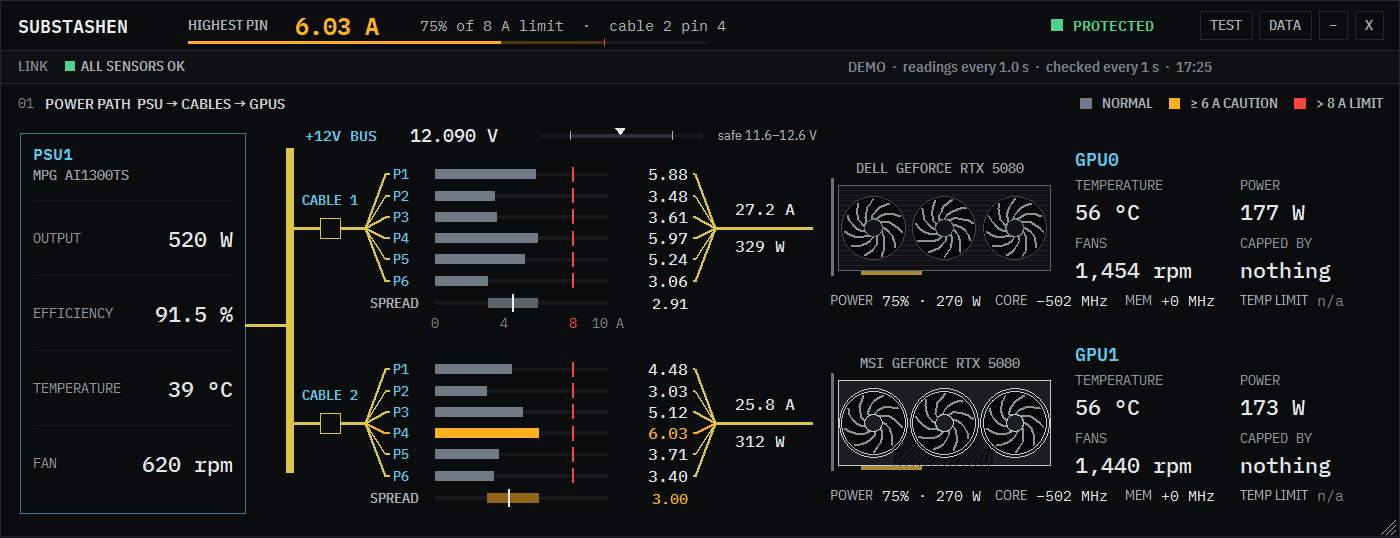
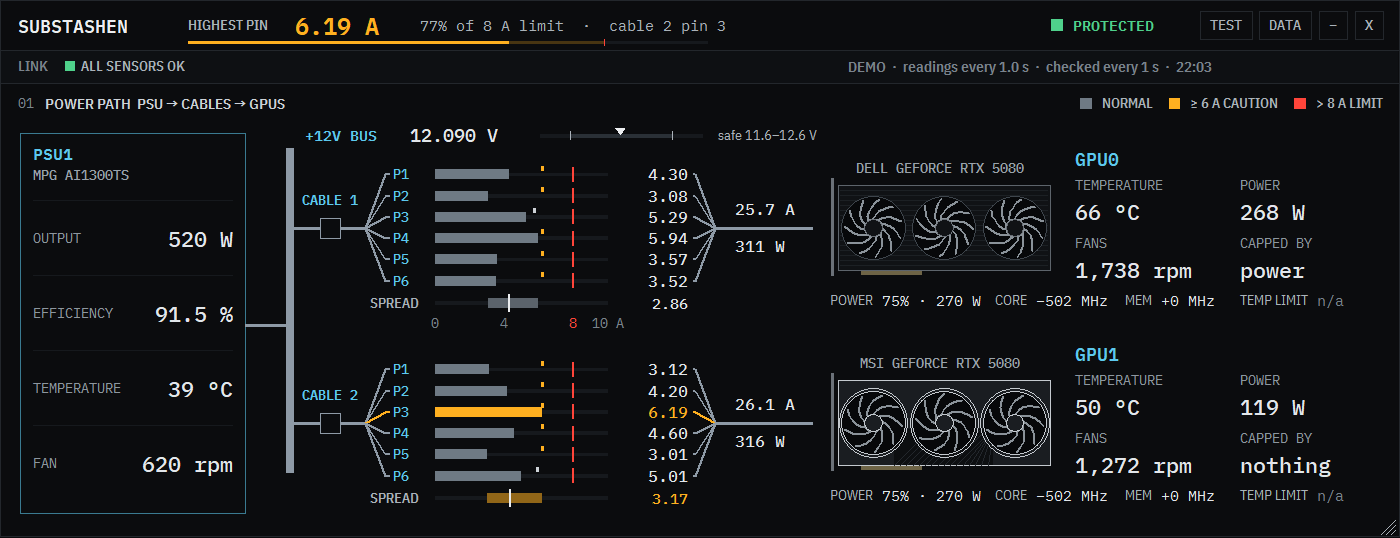
Peak notch per pin; grey wiring so amber only means caution

diff --git a/README.md b/README.md
@@ -49,7 +49,8 @@ The warning rules only warn. Only the 8 A rule and the PSU alarm close programs.
 - **HIGHEST PIN**: the highest of the 12 currents, how close it is to the 8 A limit, and a headroom bar (caution zone 6–8 A, red tick at the limit) you can read from across the room.
 - **Balance strip under each cable**: a band from the cable's lowest to its highest pin. Narrow means the pins share evenly; wide means one pin is doing more than its share. It turns amber at the same point the uneven-current warning fires.
 - **Power path diagram**: PSU → +12 V bus (with its safe 11.6–12.6 V range) → cable 1 and cable 2 → six pins each → the card they feed.
-  Each pin has its live value and a bar against the 8 A limit. The cable-to-card match is worked out
+  Each pin has its live value, a bar against the 8 A limit and a notch marking today's peak, so a short
+  spike stays visible after it has passed. The cable-to-card match is worked out
   automatically from watts.
 - **Line drawings of each card** with fans that turn at their real speed, plus temperature, power, fans and what is capping its clock (*CAPPED BY: voltage / power / heat*, which is normal).
 - **Afterburner settings under each card**: the power limit (% and watts), core and memory clock offsets and temperature limit Afterburner has applied, read-only from its control memory. *n/a* means the card doesn't expose that setting.
@@ -66,7 +67,7 @@ The warning rules only warn. Only the 8 A rule and the PSU alarm close programs.
 |---|---|
 | ![Hover help](docs/screenshots/hover-help.png) | ![Night mode](docs/screenshots/night-mode.png) |
 
-Colour carries meaning only: labels and normal bars are grey, green means healthy, **amber** means caution or not protected, and **red**
+Colour carries meaning only: labels, wiring and normal bars are grey, green means healthy, **amber** means caution or not protected, and **red**
 means over a limit. The design follows high-performance HMI practice: calm when healthy, loud when not.
 
 ## Requirements
